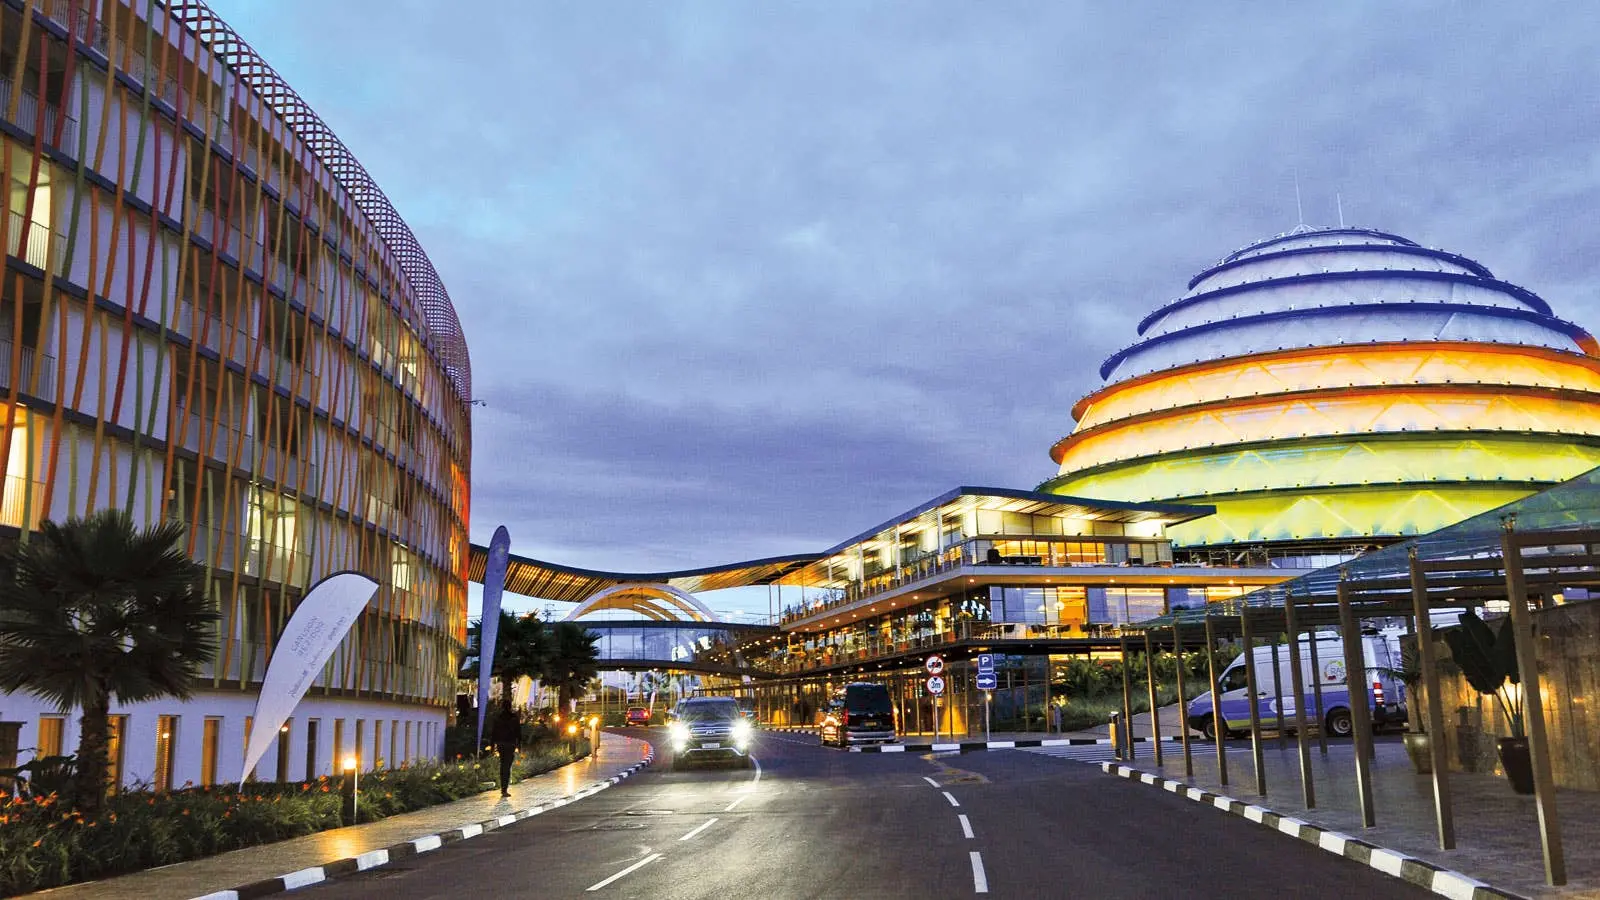
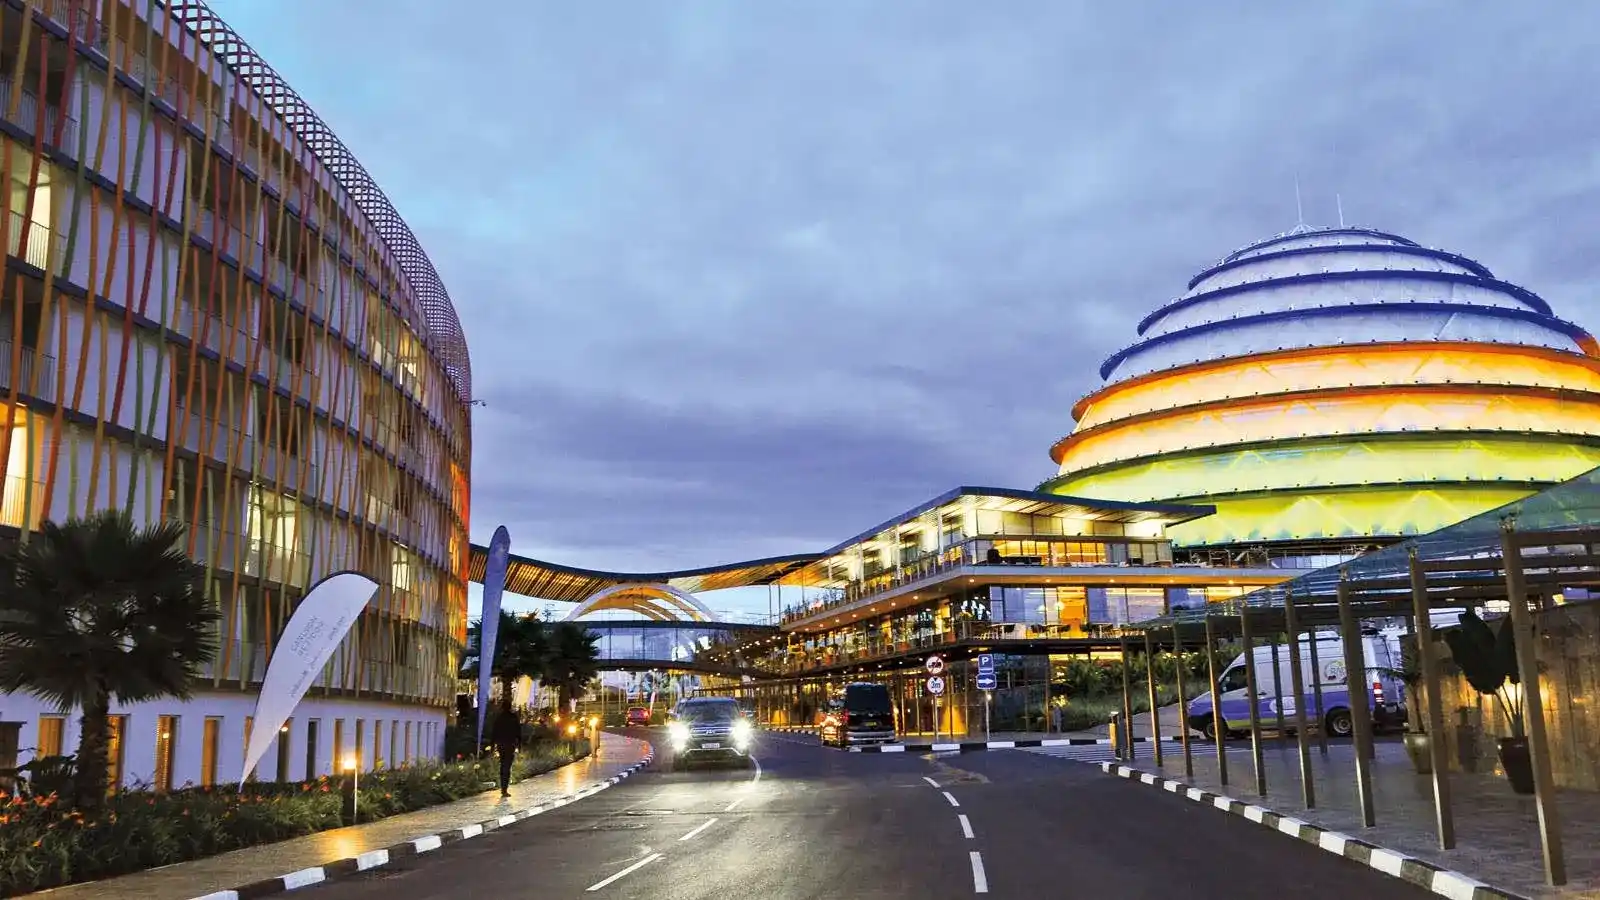
home page reviewed

diff --git a/chamber/styles/base.css b/chamber/styles/base.css
@@ -17,6 +17,8 @@
 
     --border: #5d512b;
     --focus: #ffffff;
+    --footer-contact-text: #ffffff;
+    --footer-contact-hover: #ffe97a;
 
     --shadow: 0 4px 12px rgba(0, 0, 0, 0.45);
 
@@ -213,14 +215,6 @@ nav li.active a:hover {
 }
 
 /* ---------- MAIN ---------- */
-main {
-    width: 94%;
-    max-width: 1200px;
-    margin: 0 auto;
-
-    padding: 1.5rem 0 3rem;
-}
-
 main::before {
     content: "Local Businesses & Services";
     display: block;
@@ -420,7 +414,6 @@ main::before {
 }
 
 /* ---------- FOOTER ---------- */
-/* ---------- FOOTER ---------- */
 
 footer {
     background-color: var(--surface);
@@ -447,6 +440,27 @@ footer p {
     color: var(--text-muted);
 
     margin-bottom: 0.7rem;
+}
+
+/* ---------- FOOTER CONTACT ACCESSIBILITY ---------- */
+.contact-info p,
+.contact-info a {
+    color: var(--footer-contact-text);
+}
+
+.contact-info a {
+    text-decoration: underline;
+    text-underline-offset: 2px;
+}
+
+.contact-info a:hover,
+.contact-info a:focus-visible {
+    color: var(--footer-contact-hover);
+}
+
+.contact-info a:focus-visible {
+    outline: 3px solid var(--focus);
+    outline-offset: 3px;
 }
 
 /* ---------- SOCIAL LINKS ---------- */
@@ -524,7 +538,6 @@ main {
     padding: 1rem;
 }
 
-
 /* =========================================
    HERO
    ========================================= */
@@ -547,7 +560,6 @@ main {
     object-fit: cover;
 }
 
-
 .hero-content {
     position: absolute;
     left: 50%;
@@ -566,7 +578,6 @@ main {
     border-radius: 8px;
 }
 
-
 .hero-content h2 {
     margin-bottom: 0.5rem;
 
@@ -575,7 +586,6 @@ main {
     font-size: 1.6rem;
 }
 
-
 .hero-content p {
     margin-bottom: 1rem;
 
@@ -583,7 +593,6 @@ main {
 
     line-height: 1.5;
 }
-
 
 .join-button {
     display: inline-block;
@@ -603,13 +612,11 @@ main {
         transform 0.2s ease;
 }
 
-
 .join-button:hover {
     background-color: var(--primary-dark);
 
     transform: translateY(-2px);
 }
-
 
 /* =========================================
    GENERAL CONTENT CARDS
@@ -627,7 +634,6 @@ main {
     box-shadow: var(--shadow);
 }
 
-
 .content-card > h2 {
     margin-bottom: 1.25rem;
 
@@ -635,7 +641,6 @@ main {
 
     text-align: center;
 }
-
 
 /* =========================================
    CURRENT EVENTS
@@ -649,7 +654,6 @@ main {
     gap: 1rem;
 }
 
-
 .event-card {
     padding: 1rem;
 
@@ -660,20 +664,17 @@ main {
     border: 1px solid var(--border);
 }
 
-
 .event-card h3 {
     margin-bottom: 0.5rem;
 
     color: var(--primary);
 }
 
-
 .event-card p {
     color: var(--text-muted);
 
     line-height: 1.5;
 }
-
 
 /* =========================================
    WEATHER
@@ -690,12 +691,10 @@ main {
     margin-bottom: 1.5rem;
 }
 
-
 .weather-current img {
     width: 90px;
     height: 90px;
 }
-
 
 .temperature {
     margin: 0;
@@ -706,13 +705,11 @@ main {
     font-weight: 700;
 }
 
-
 .weather-current p {
     margin: 0.25rem 0;
 
     color: var(--text-muted);
 }
-
 
 .forecast h3 {
     margin-bottom: 1rem;
@@ -722,7 +719,6 @@ main {
     color: var(--text-light);
 }
 
-
 .forecast-cards {
     display: grid;
 
@@ -730,7 +726,6 @@ main {
 
     gap: 1rem;
 }
-
 
 .forecast-card {
     padding: 1rem;
@@ -744,19 +739,16 @@ main {
     border-radius: 8px;
 }
 
-
 .forecast-card h4 {
     margin-bottom: 0.5rem;
 
     color: var(--primary);
 }
 
-
 .forecast-card img {
     width: 60px;
     height: 60px;
 }
-
 
 .forecast-card p {
     margin: 0.35rem 0;
@@ -764,15 +756,9 @@ main {
     color: var(--text-muted);
 }
 
-
 /* =========================================
    BUSINESS SPOTLIGHTS
    ========================================= */
-
-#spotlights {
-    display: block;
-}
-
 
 .spotlight-container {
     display: grid;
@@ -781,7 +767,6 @@ main {
 
     gap: 1.25rem;
 }
-
 
 .spotlight-card {
     display: flex;
@@ -799,7 +784,6 @@ main {
     box-shadow: var(--shadow);
 }
 
-
 .spotlight-card img {
     display: block;
 
@@ -813,7 +797,6 @@ main {
     border-radius: 5px;
 }
 
-
 .spotlight-card h3 {
     margin-bottom: 0.75rem;
 
@@ -821,7 +804,6 @@ main {
 
     text-align: center;
 }
-
 
 .spotlight-card p {
     margin: 0.5rem 0;
@@ -831,18 +813,15 @@ main {
     line-height: 1.5;
 }
 
-
 .spotlight-card strong {
     color: var(--text-light);
 }
-
 
 .spotlight-card a {
     color: var(--primary);
 
     text-decoration: none;
 }
-
 
 .spotlight-card a:hover {
     text-decoration: underline;

diff --git a/chamber/index.html b/chamber/index.html
@@ -3,7 +3,7 @@
 <head>
     <meta charset="UTF-8">
     <meta name="viewport" content="width=device-width, initial-scale=1.0">
-    <meta name="description" content="Discover local businesses, services, events, and opportunities through the Kigali Chamber of Commerce. Connect with businesses and explore resources that support Rwanda's growing business community.">
+    <meta name="description" content="Discover local businesses, services, events, and opportunities through the Kigali Chamber of Commerce.">
     <meta name="keywords" content="Kigali Chamber of Commerce, Rwanda businesses, local businesses, business directory, chamber members, business services, Kigali business community">
     <meta name="author" content="Muhire Bienvenue">
     <link rel="icon" href="images/favicon.ico">
@@ -11,7 +11,7 @@
 
     <meta property="og:title" content="Kigali Chamber of Commerce | Business and Community">
     <meta property="og:description" content="Connect with local businesses, discover opportunities, and explore resources supporting Kigali's business community.">
-    <meta property="og:image" content="https://example.com/images/chamber-directory.jpg">
+    <meta property="og:image" content="https://https://muhireb1.github.io/wdd231/chamber/index.html">
     <meta property="og:url" content="https://example.com/directory">
     <meta property="twitter:card" content="summary_large_image">
     <meta property="twitter:title" content="Chamber Directory">
@@ -26,7 +26,7 @@
     <link rel="stylesheet" href="styles/normalize.css">
     <script type="module" src="scripts/main.mjs"></script>
 </head>
-<body>
+<body data-theme="forest">
     <header>
         <img src="images/logo.svg" alt="Chamber Logo" class="logo">
         <span>CHAMBER OF COMMERCE</span>
@@ -39,8 +39,6 @@
         </button>
     </header>
     <nav>
-        <h1>Home</h1>
-
         <ul id="primary-navigation">
             <li class="active" aria-current="page"><a href="home.html">Home</a></li>
             <li><a href="directory.html">Directory</a></li>
@@ -49,6 +47,7 @@
         </ul>
     </nav>
     <main>
+        <h1>Kigali Chamber of Commerce | Business & Community</h1>
         <section class="hero-image">
         <picture>
             <source srcset="images/hero-small.webp" media="(max-width: 600px)">
@@ -180,3 +179,5 @@
     </section>
 
 </footer>
+</body>
+</html>

diff --git a/chamber/directory.html b/chamber/directory.html
@@ -11,7 +11,7 @@
 
     <meta property="og:title" content="Chamber Directory">
     <meta property="og:description" content="Explore the Chamber Directory for local businesses and services.">
-    <meta property="og:image" content="https://example.com/images/chamber-directory.jpg">
+    <meta property="og:image" content="https://https://muhireb1.github.io/wdd231/chamber/directory.html">
     <meta property="og:url" content="https://example.com/directory">
     <meta property="twitter:card" content="summary_large_image">
     <meta property="twitter:title" content="Chamber Directory">
@@ -26,7 +26,7 @@
     <link rel="stylesheet" href="styles/normalize.css">
     <script src="scripts/directory.js" defer></script>
 </head>
-<body>
+<body data-theme="forest">
     <header>
         <img src="images/logo.svg" alt="Chamber Logo" class="logo">
         <span>CHAMBER OF COMMERCE</span>
@@ -40,8 +40,6 @@
         </button>
     </header>
     <nav>
-        <h1>Directory</h1>
-
         <ul id="primary-navigation">
             <li><a href="index.html">Home</a></li>
             <li class="active">
@@ -52,6 +50,7 @@
         </ul>
     </nav>
     <main>
+        <h1>Chamber Directory - Local Businesses and Services - kigali-Rwanda</h1>
         <button
             id="grid-view"
             type="button"

diff --git a/chamber/styles/large.css b/chamber/styles/large.css
@@ -334,3 +334,4 @@
         margin-right: auto;
     }
 }
+
